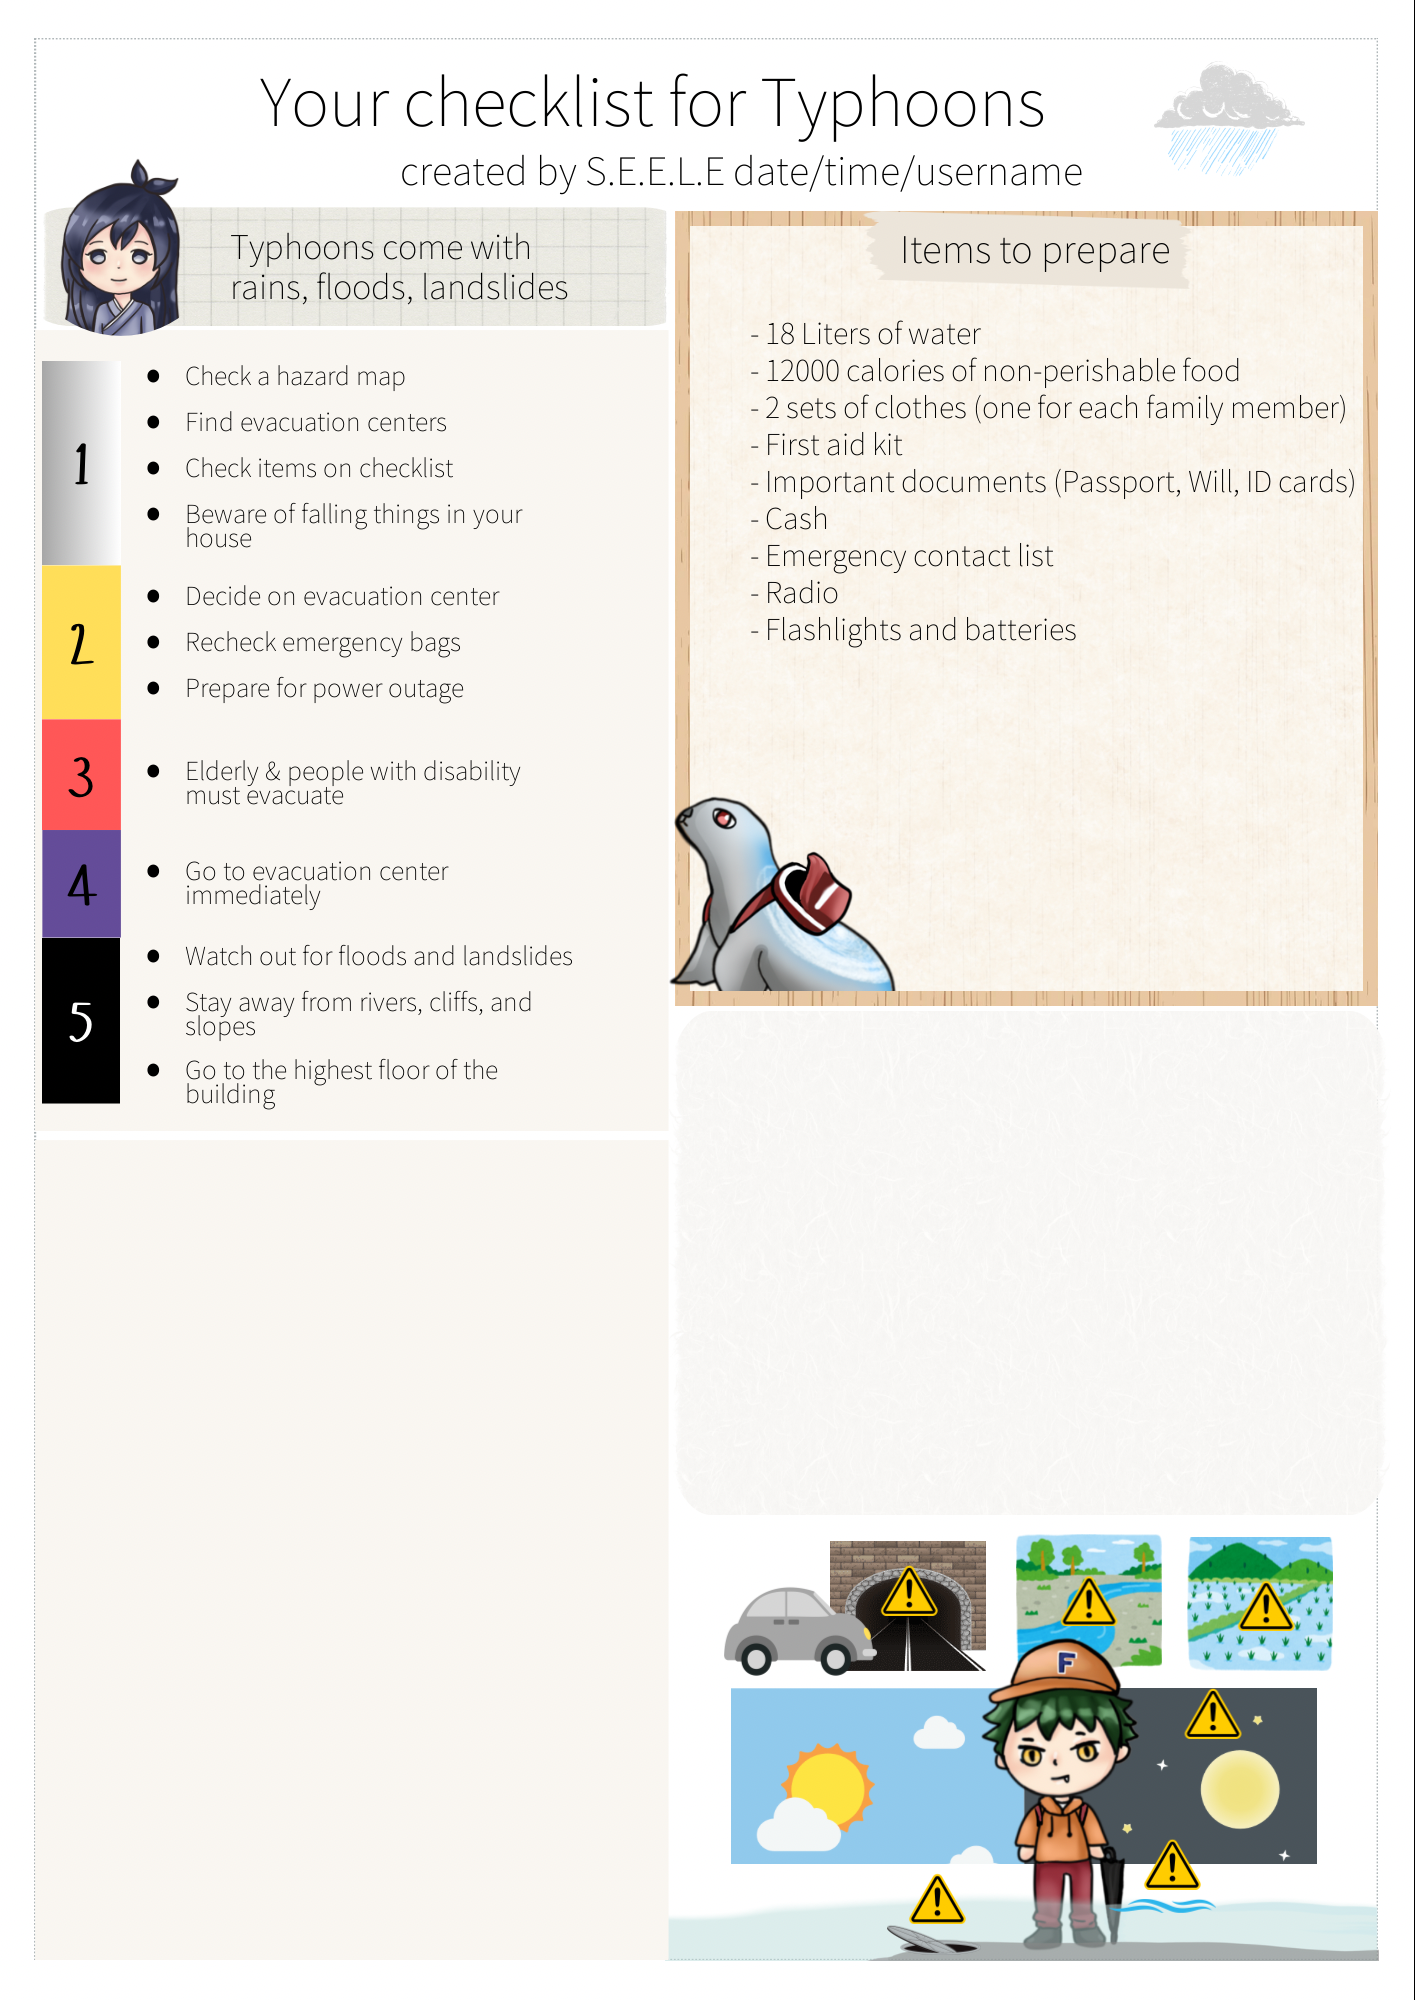
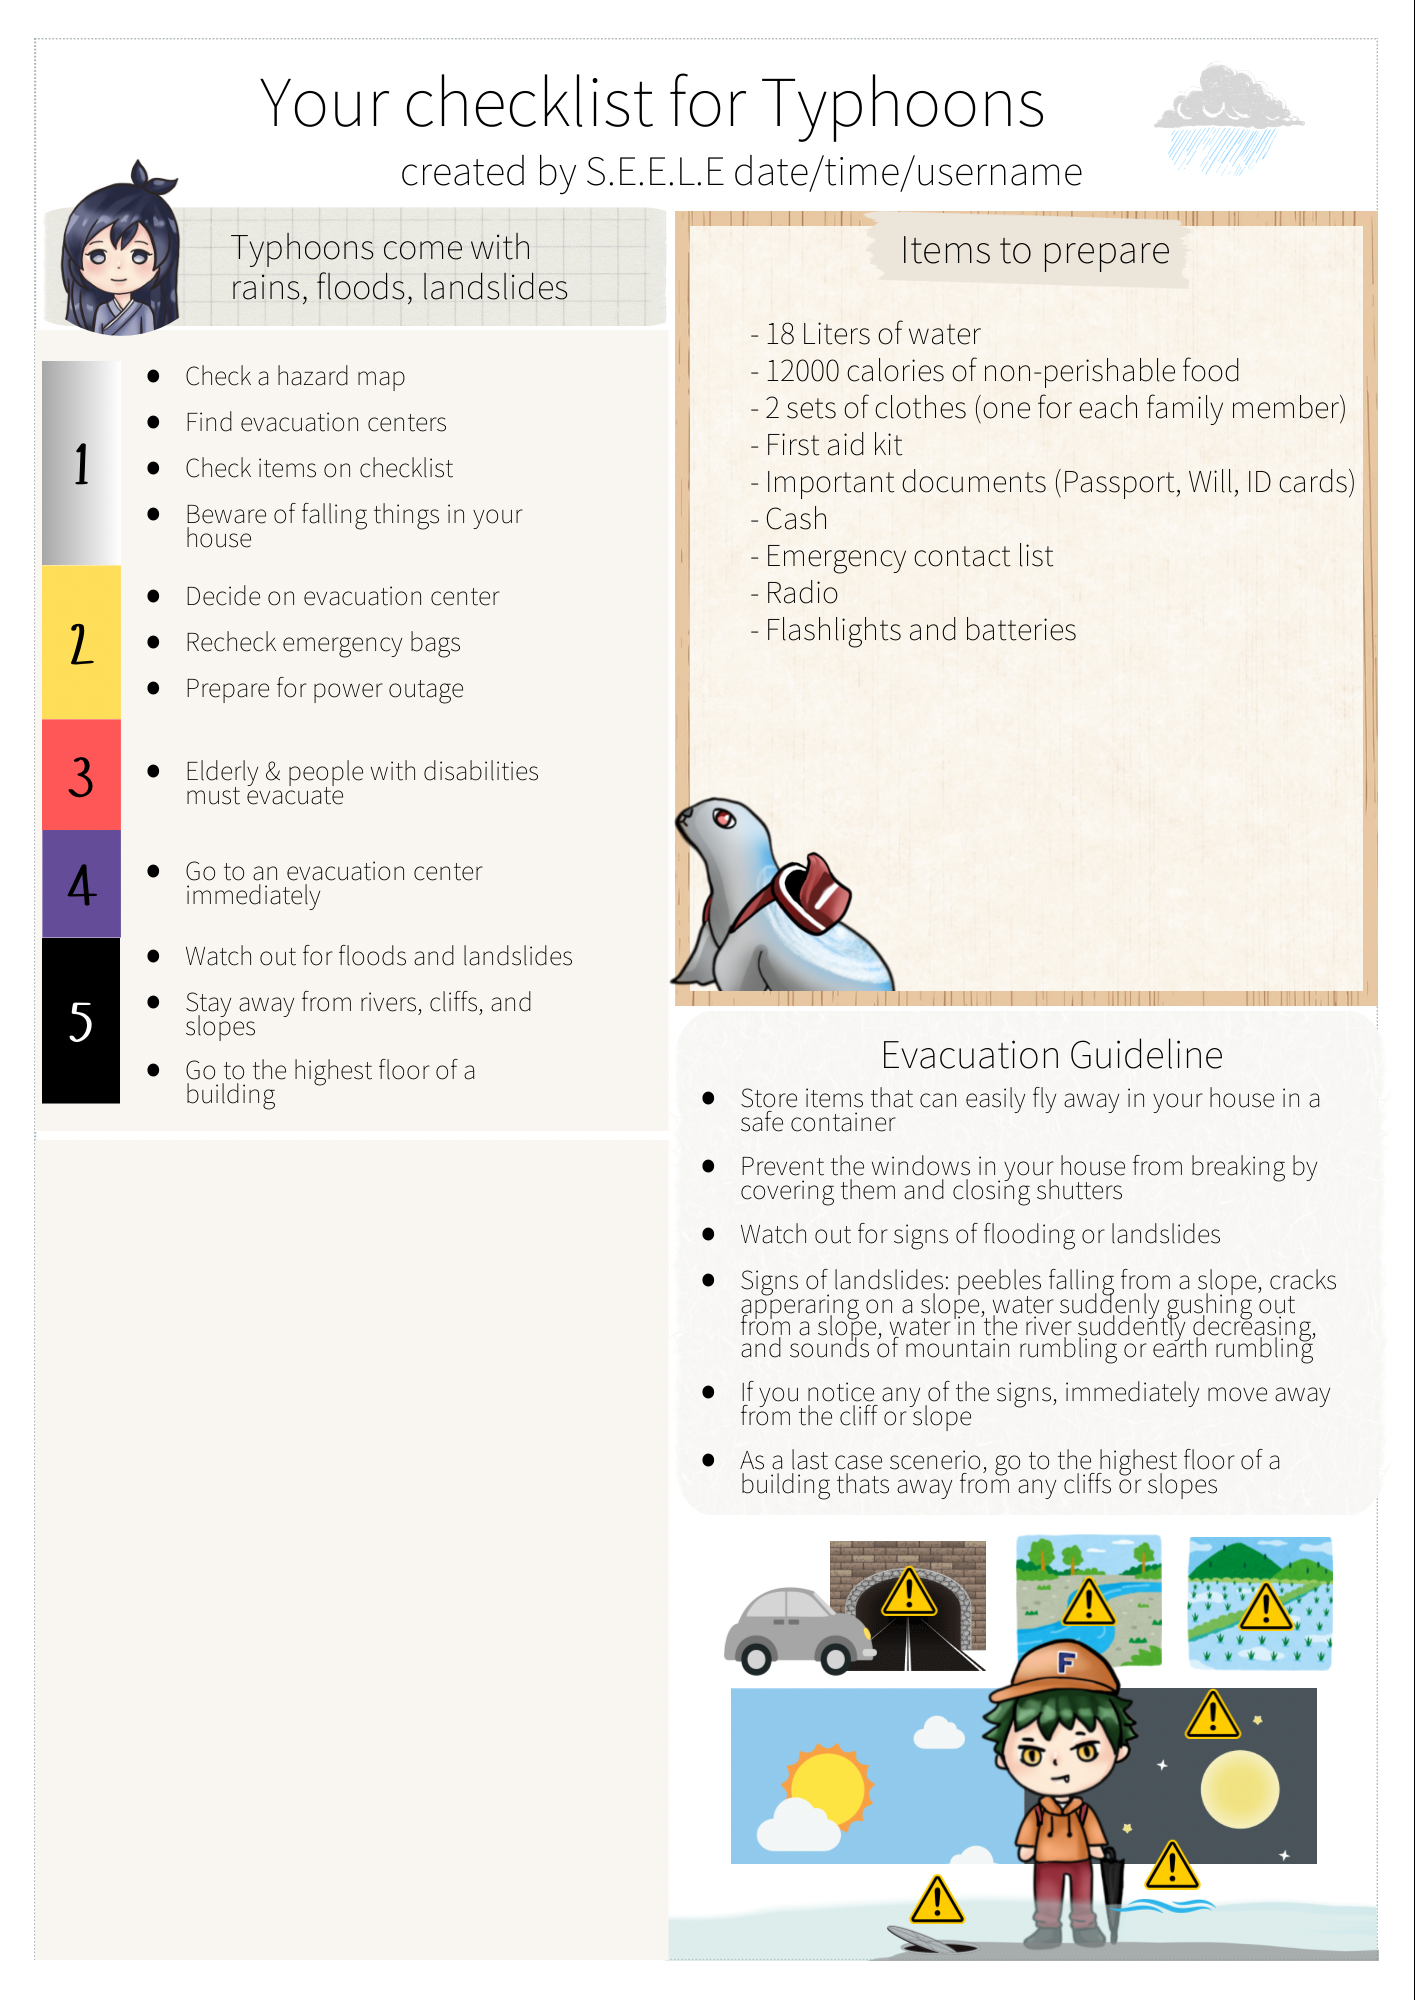
Official typhoon poster (info not updated)

Changed region(s): [[0.5286, 0.527, 0.9329, 0.744], [0.7463, 0.713, 0.8707, 0.744]]

diff --git a/website/utils.py b/website/utils.py
@@ -10,12 +10,14 @@ def remove_furigana(text):
 
 # Function that creates spacing for bullet points
 def bullet_spacing(draw, font_path, list, x, y):
-    for item in list:
-        if len(item) > 14:
+    for item, bullet_point in list:
+        if bullet_point:
+            # Adds the bullet point which needs to have a bigger font size than the text
             font_size = 55
             font = ImageFont.truetype(font_path, font_size)
             draw.text((x, y), f"\u2022", font=font, fill='black')
 
+            # Adds the text
             font_size = 25
             font = ImageFont.truetype(font_path, font_size)
             x += 40
@@ -41,37 +43,55 @@ def typhoon_checklist(draw, font_path):
     draw.text((x, y), "rains, floods, landslides", font=font, fill='black')
 
     level1_typhoon = [
-            ("Check a hazard map"),
-            ("Find evacuation centers"),
-            ("Check items on checklist"),
-            ("Beware of falling things in your"),
-            ("house"),
-        ]
+        ("Check a hazard map", True),
+        ("Find evacuation centers", True),
+        ("Check items on checklist", True),
+        ("Beware of falling things in your", True),
+        ("house", False),
+    ]
     
     
     level2_typhoon = [
-            ("Decide on evacuation center"),
-            ("Recheck emergency bags"),
-            ("Prepare for power outage"),
-        ]
+        ("Decide on evacuation center", True),
+        ("Recheck emergency bags", True),
+        ("Prepare for power outage", True),
+    ]
     
     level3_typhoon = [
-            ("Elderly & people with disability"),
-            ("must evacuate"),
-        ]
+        ("Elderly & people with disabilities", True),
+        ("must evacuate", False),
+    ]
     
     level4_typhoon = [
-            ("Go to evacuation center"),
-            ("immediately"),
-        ]
+        ("Go to an evacuation center", True),
+        ("immediately", False),
+    ]
     
     level5_typhoon = [
-            ("Watch out for floods and landslides"),
-            ("Stay away from rivers, cliffs, and"),
-            ("slopes"),
-            ("Go to the highest floor of the"),
-            ("building"),
-        ]
+        ("Watch out for floods and landslides", True),
+        ("Stay away from rivers, cliffs, and", True),
+        ("slopes", False),
+        ("Go to the highest floor of a", True),
+        ("building", False),
+    ]
+    
+    disaster_tips = [
+        ("Store items that can easily fly away in your house in a", True),
+        ("safe container", False),
+        ("Prevent the windows in your house from breaking by", True),
+        ("covering them and closing shutters", False),
+        ("Watch out for signs of flooding or landslides", True),
+        ("Signs of landslides: peebles falling from a slope, cracks", True),
+        ("apperaring on a slope, water suddenly gushing out", False),
+        ("from a slope, water in the river suddently decreasing,", False),
+        ("and sounds of mountain rumbling or earth rumbling", False),
+        ("If you notice any of the signs, immediately move away", True),
+        ("from the cliff or slope", False),
+        ("As a last case scenerio, go to the highest floor of a", True),
+        ("building thats away from any cliffs or slopes", False)
+    ]
+    
+
     
     font_size = 25
     font = ImageFont.truetype(font_path, font_size)
@@ -90,6 +110,15 @@ def typhoon_checklist(draw, font_path):
 
     y += 85
     bullet_spacing(draw, font_path, level5_typhoon, x, y)
+
+    x, y = 880, 1025
+    font_size = 37
+    font = ImageFont.truetype(font_path, font_size)
+    draw.text((x, y), "Evacuation Guideline", font=font, fill='black')
+
+    x,y = 700, 1050
+    bullet_spacing(draw, font_path, disaster_tips, x, y)
+
 
 def checklist_image(checklist, disaster_type, facts):
     # Loading the image template from static folder
